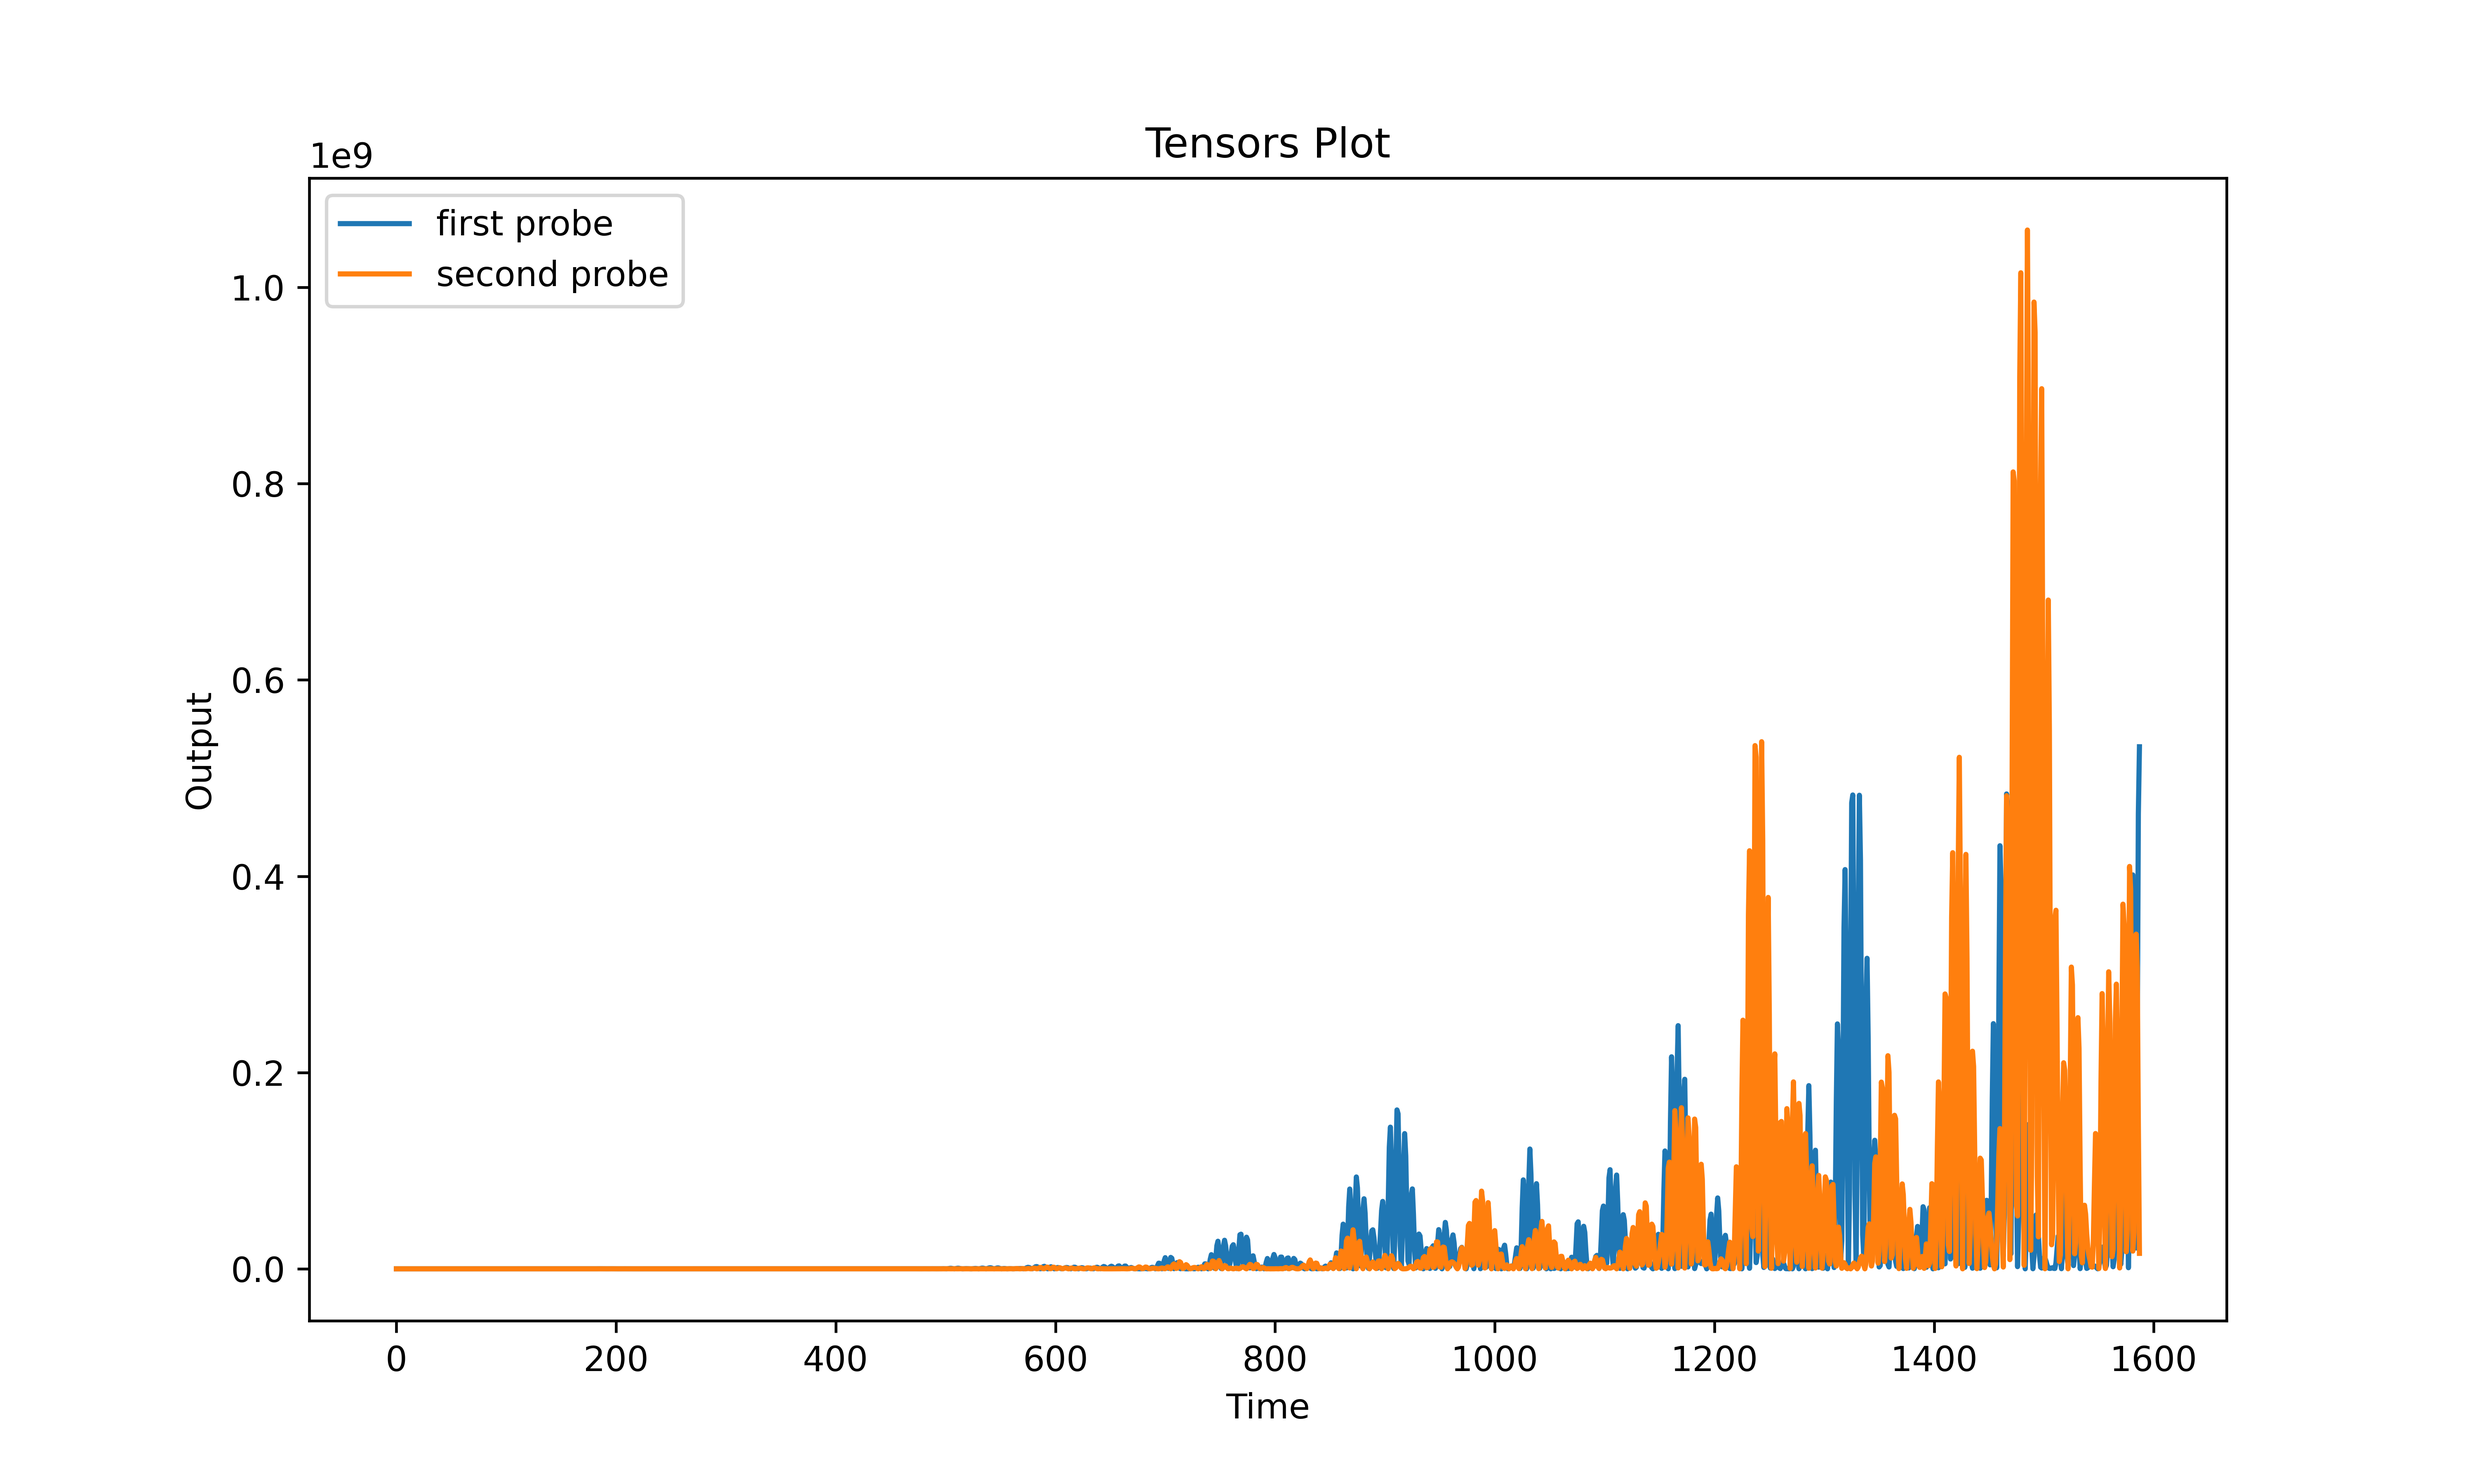
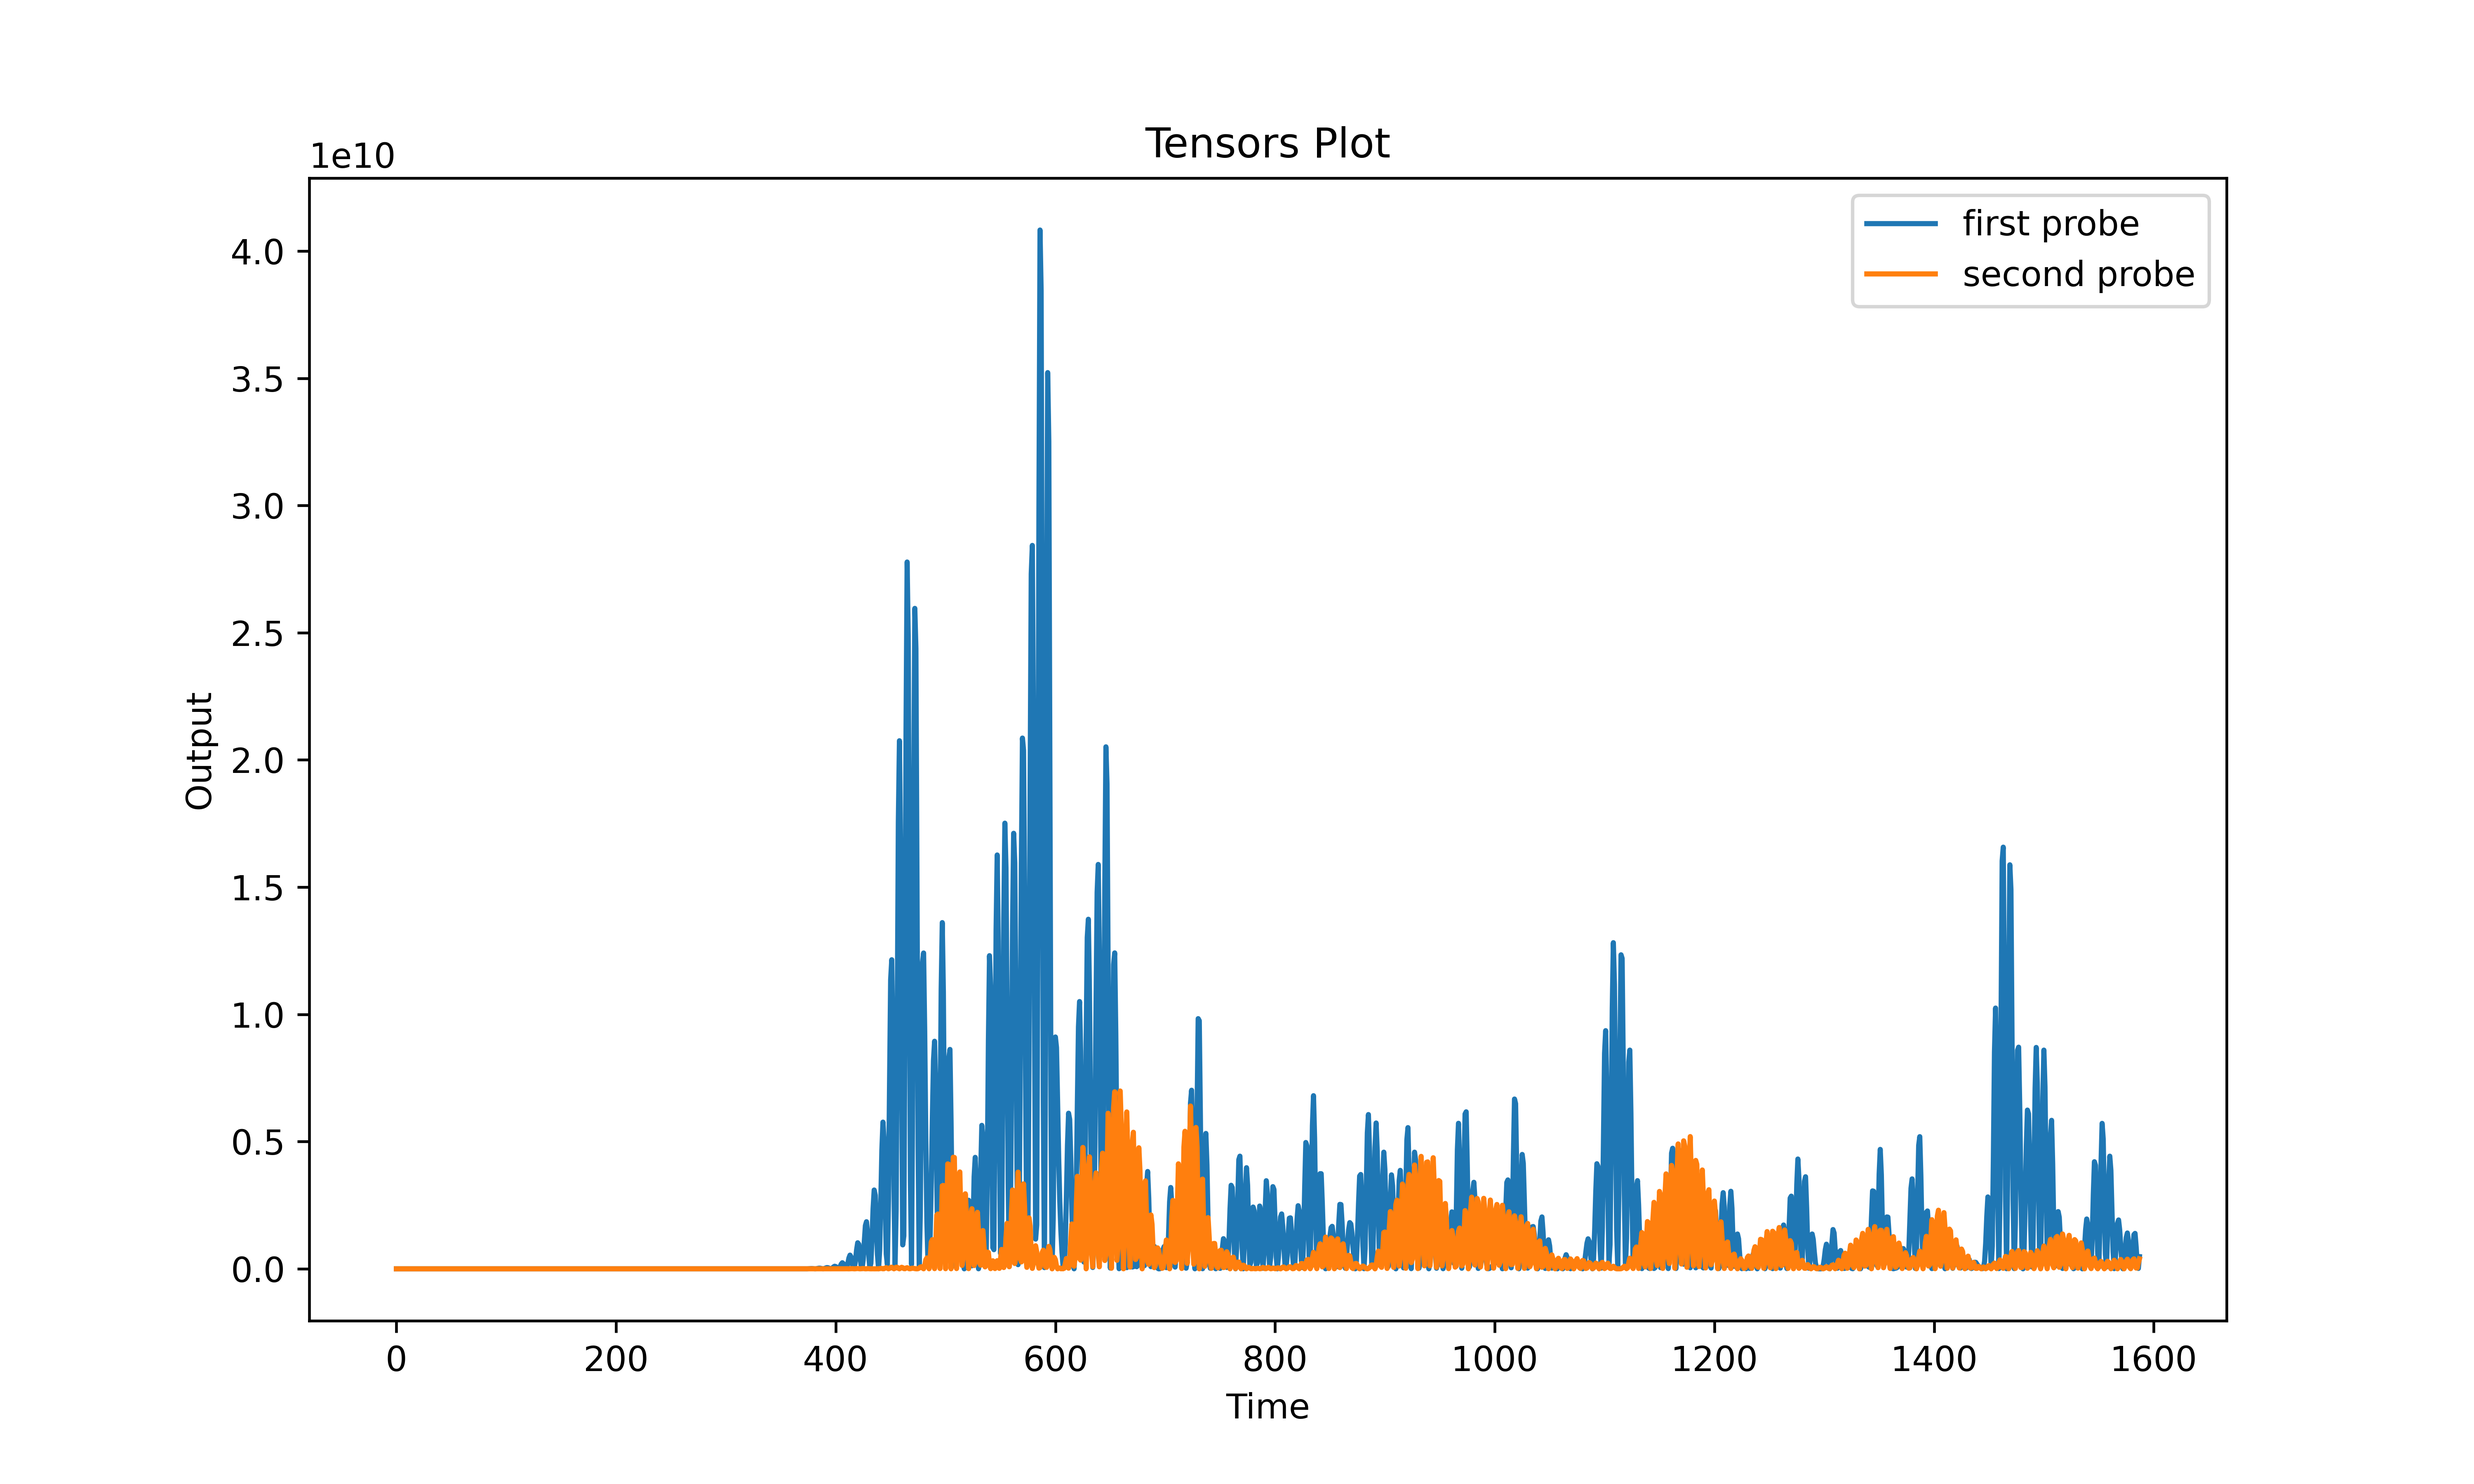
feat: preprocessing for different

diff --git a/preprocess_non_rnn.py b/preprocess_non_rnn.py
@@ -1,0 +1,143 @@
+import numpy as np
+import tensorflow as tf
+import torch
+import pickle
+from torch import tensor
+import matplotlib.pyplot as plt
+from tqdm import tqdm
+import argparse
+
+
+def parseArgs() -> argparse.Namespace:
+    parser = argparse.ArgumentParser()
+    parser.add_argument("--points", type=int, default=3)
+    parser.add_argument("--pooling", type=bool, default=False)
+    parser.add_argument("--min_freq", type=float, default=0.5e9)
+    parser.add_argument("--max_freq", type=float, default=10e9)
+    parser.add_argument("--size", type=int, default=320)
+    parser.add_argument("--all_classes", type=bool, default=False)
+    parser.add_argument("--num", type=int, default=0)
+    args = parser.parse_args()
+    return args
+
+
+def filter_classes(inputs, labels, keep_classes):
+    mask = np.isin(labels, keep_classes)
+    filtered_inputs = inputs[mask]
+    filtered_labels = labels[mask]
+    return filtered_inputs, filtered_labels
+
+
+def remap_labels(labels, mapping):
+    mapped_labels = np.vectorize(mapping.get)(labels)
+    return mapped_labels
+
+
+def load_and_preprocess_data(args: argparse.Namespace):
+    """This is where we load in and preprocess our data! We load in the data
+        for you but you'll need to flatten the images, normalize the values and
+        convert the input images from numpy arrays into tensors
+    Return the preprocessed training and testing data and labels!"""
+
+    # Load in the training and testing data from the MNIST dataset
+    (train_inputs, train_labels), (test_inputs, test_labels) = (
+        tf.keras.datasets.mnist.load_data()
+    )
+    keep_classes = [6, 7]
+    label_mapping = {6: 0, 7: 1}
+    test_inputs, test_labels = filter_classes(test_inputs, test_labels, keep_classes)
+    train_inputs, train_labels = filter_classes(
+        train_inputs, train_labels, keep_classes
+    )
+    train_inputs = pool(train_inputs)
+    print("shape of train inputs after pooling:")
+    print(train_inputs.shape)
+    test_inputs = pool(test_inputs)
+    dig_train_inputs = (
+        train_inputs.reshape(-1, train_inputs.shape[-1] * train_inputs.shape[-2]) / 255
+    )
+    dig_test_inputs = (
+        test_inputs.reshape(-1, test_inputs.shape[-1] * test_inputs.shape[-2]) / 255
+    )
+    refined_inputs = dig_train_inputs[0 : args.size]
+    refined_inputs = wave_transform(refined_inputs, args.min_freq, args.max_freq)
+    refined_inputs = add_zeros(refined_inputs, 500)
+    refined_ouputs = remap_labels(train_labels[0 : args.size], label_mapping)
+    testing_size = int(0.2 * args.size) if int(0.2 * args.size) >= 320 else 320
+    new_test_inputs = wave_transform(
+        dig_test_inputs[0:testing_size], args.min_freq, args.max_freq
+    )
+    new_test_inputs = add_zeros(new_test_inputs, 500)
+    print(f"Refined inputs shape: {refined_inputs.shape}")
+    new_test_labels = remap_labels(test_labels[0:testing_size], label_mapping)
+    train_labels = tensor(refined_ouputs, dtype=torch.long)
+    test_labels = tensor(new_test_labels, dtype=torch.long)
+    if args.all_classes == False:
+        with open(f"C:/spins/data/data_{args.num}.p", "wb") as pickle_file:
+            pickle.dump(
+                dict(
+                    train_inputs=train_inputs,
+                    train_labels=train_labels,
+                    test_inputs=test_inputs,
+                    test_labels=test_labels,
+                    dig_train_inputs=refined_inputs,
+                    dig_test_inputs=new_test_inputs,
+                ),
+                pickle_file,
+            )
+        print(f'Data has been dumped into {"C:/spins/data"}/data_{args.num}.p!')
+    else:
+        with open(f"C:/spins/data/data.p", "wb") as pickle_file:
+            pickle.dump(
+                dict(
+                    train_inputs=train_inputs,
+                    train_labels=train_labels,
+                    test_inputs=test_inputs,
+                    test_labels=test_labels,
+                    dig_train_inputs=refined_inputs,
+                    dig_test_inputs=new_test_inputs,
+                ),
+                pickle_file,
+            )
+        print(f'Data has been dumped into {"C:/spins/data"}/data.p!')
+
+
+def pool(inputs: np.array):
+    """Performs average pooling on image, effectively cutting down the resolution. For
+    mnist this means going from 28 by 28 to 14 by 14 for 2 by 2 pooling with a stride of 2.
+    """
+    inputs = tensor(inputs, dtype=torch.float32)
+    inputs = inputs.unsqueeze(1)
+    # the output width and heigh is governed by the following equation assuming no padding:
+    # w_f = (w_i + filter_width)/stride and the same for heigh
+    pooling_layer = torch.nn.AvgPool2d(kernel_size=(3, 3), stride=3, padding=0)
+    pooled = pooling_layer(inputs).squeeze()
+    to_return = pooled.numpy()
+
+    return to_return
+
+
+def wave_transform(inputs: np.array, min_freq, max_freq):
+    t = np.arange(0, 600 * 20e-12, 20e-12)
+    inputs = np.expand_dims(inputs, axis=-1)
+    wave = np.sin(2 * np.pi * t * (inputs * (max_freq - min_freq) + min_freq))
+    return torch.tensor(wave, dtype=torch.float32)
+
+
+def add_zeros(wave: tensor, number_of_zeros):
+    added_zeros = torch.cat(
+        (wave, torch.zeros((wave.shape[0], wave.shape[1], number_of_zeros))), dim=-1
+    )
+    return added_zeros
+
+
+def show_image(image: np.array):
+    """
+    Used to show mnist image"""
+    plt.imshow(image, cmap="gray")
+    plt.axis("off")
+    plt.show()
+
+
+if __name__ == "__main__":
+    load_and_preprocess_data(parseArgs())

diff --git a/playing_around.py b/playing_around.py
@@ -1,0 +1,25 @@
+import torch
+import matplotlib.pyplot as plt
+
+# Number of timesteps
+n_timesteps = 80
+# Generate 50 equally spaced values from 0 to 2*pi
+x = torch.linspace(0, 2 * torch.pi, n_timesteps)
+
+# Compute the sine of these values
+y = torch.sin(x)
+
+# Print the values
+print(y.shape)
+min_freq = 0.5e9
+max_freq = 10e9
+
+outputs = ((max_freq - min_freq) / 2) * y + ((max_freq + min_freq) / 2)
+print(outputs.shape)
+dt = 20e-12
+t = torch.arange(0, 600 * dt, dt).unsqueeze(0)  # time vector
+print(t.shape)
+inside = 2 * torch.pi * outputs.unsqueeze(-1) * t
+print(inside.shape)
+inputs = torch.sin(inside).unsqueeze(-1)
+print(inputs.shape)

diff --git a/SpinTorch/focus_one.py b/SpinTorch/focus_one.py
@@ -40,7 +40,7 @@ def focus(args):
     # geom = spintorch.WaveGeometryMs((nx, ny), (dx, dy, dz), Ms, B0)
     src = spintorch.WaveLineSource(10, 0, 10, ny - 1, dim=2)
     probes = []
-    Np = 2  # number of probes
+    Np = 50  # number of probes
     for p in range(Np):
         probes.append(
             spintorch.WaveIntensityProbeDisk(nx - 15, int(ny * (p + 1) / (Np + 1)), 2)

diff --git a/SpinTorch/spintorch/solver.py b/SpinTorch/spintorch/solver.py
@@ -105,6 +105,7 @@ class MMSolver(nn.Module):
         Called in run_stage for every loop through the signal
         """
         for i, src in enumerate(self.sources):
+            print(sig.shape)
             B_ext = src(
                 B_ext, sig[:, 0, i]
             )  # changed this to be compattible with different batch sizes.
